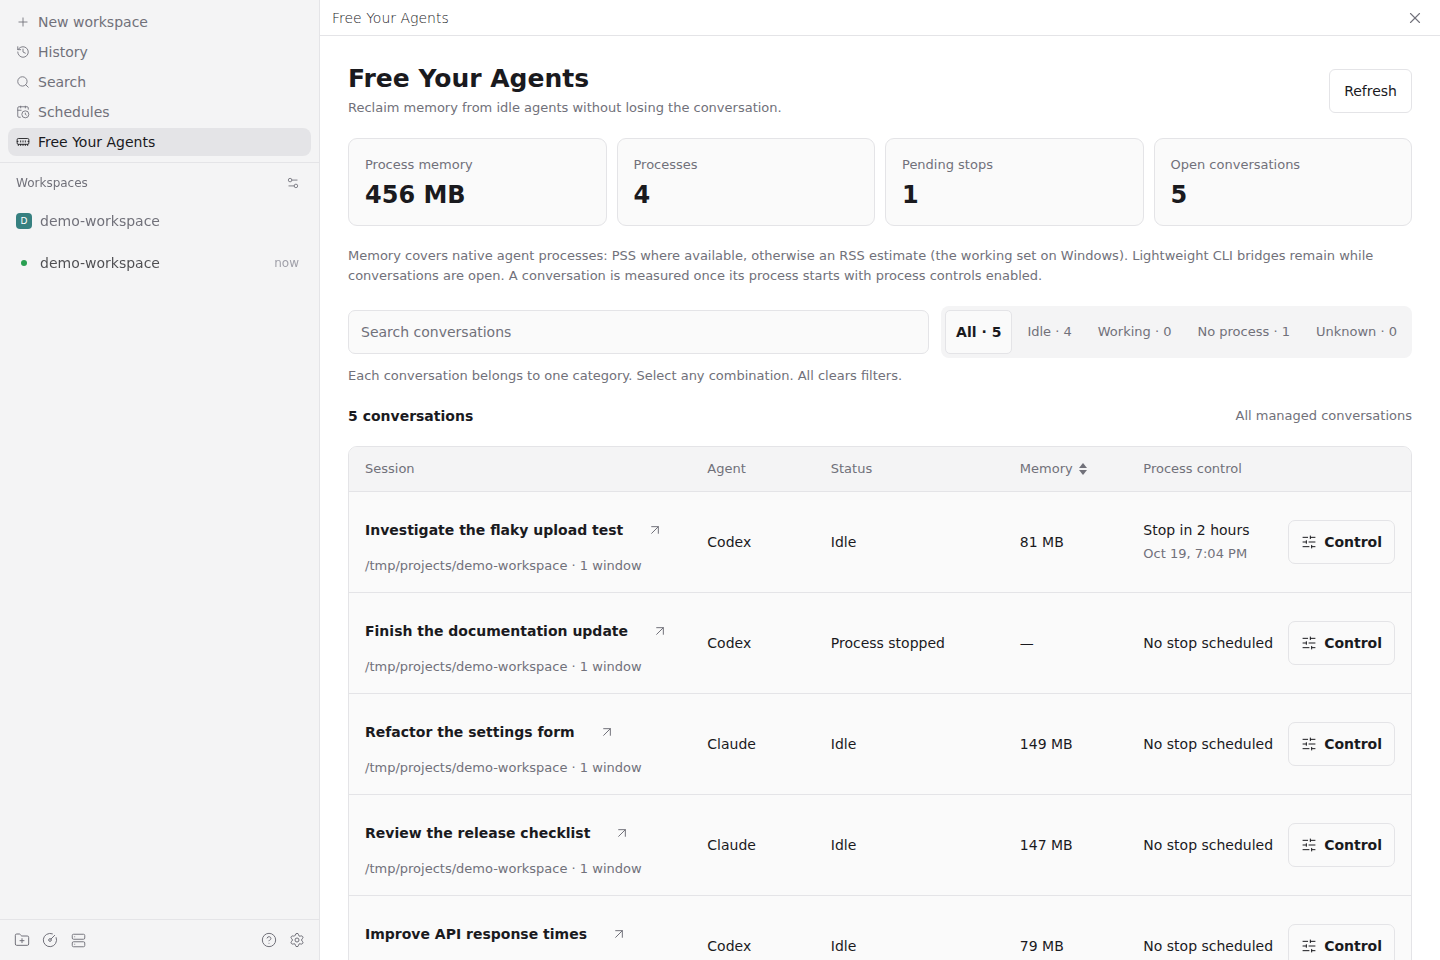
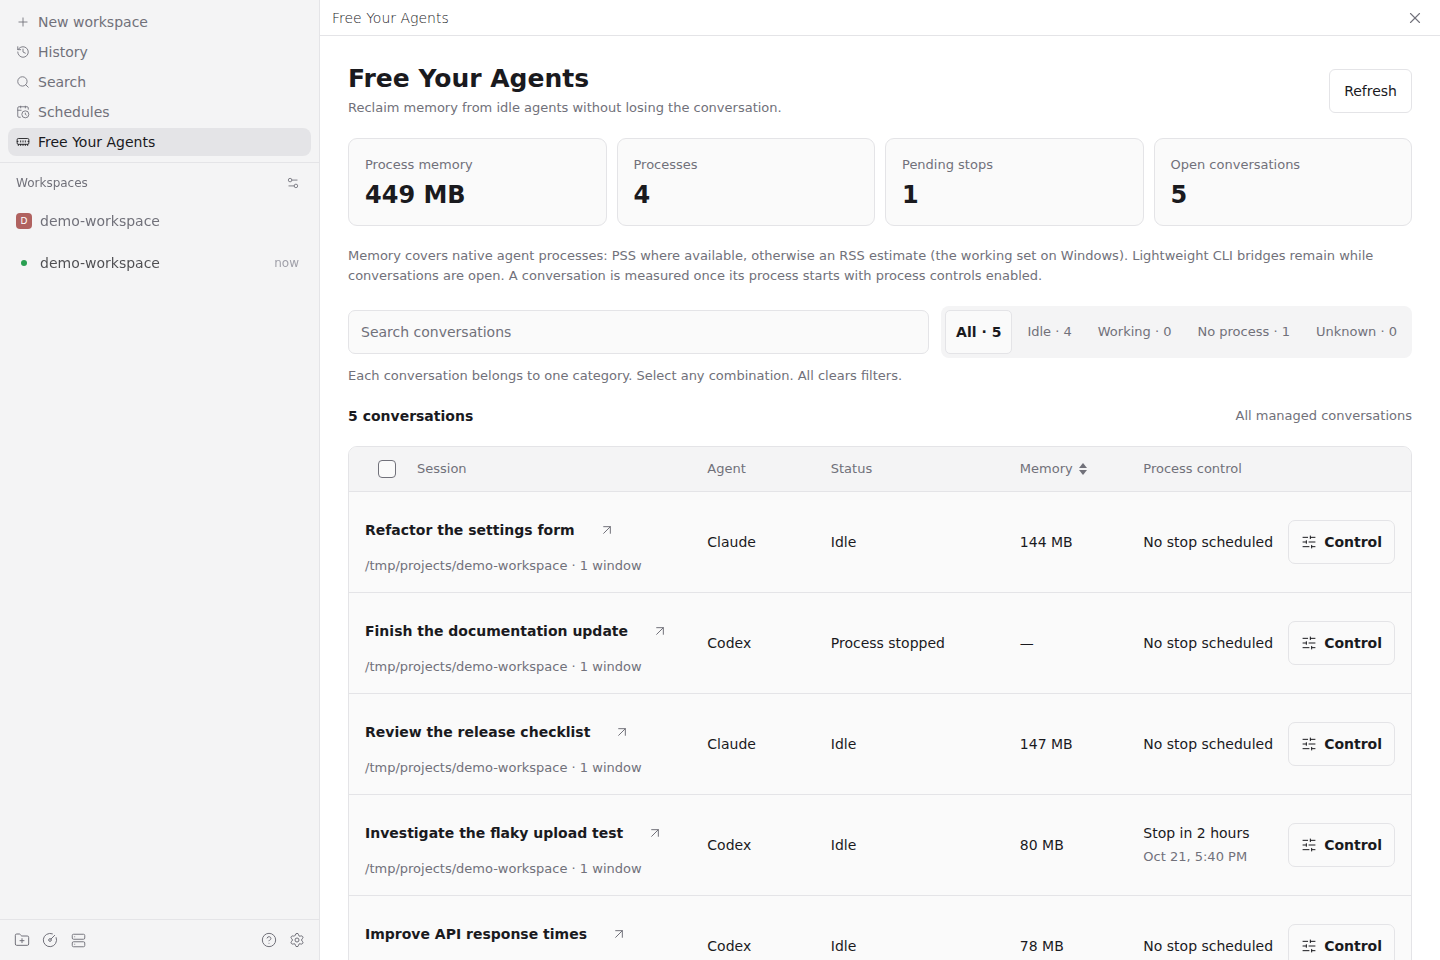
chore: release Free Your Agents v1.1.0

diff --git a/README.md b/README.md
@@ -13,6 +13,7 @@ It helps when many conversations stay open: each one keeps its CLI process runni
 - **See where memory goes.** Managed conversation tabs across the windows and devices connected to the host, with their provider, status and process memory, plus totals. Sort by memory to find the largest.
 - **Find what you can free.** Filter by **Idle**, **Working**, **No process** or **Unknown**, or search by title and workspace.
 - **Stop now or later.** Stop an idle process immediately, or schedule a one-time stop for one conversation (1 hour by default, from 15 minutes to 7 days).
+- **Control several conversations together.** Select conversations with checkboxes to schedule, update or cancel stops, or request a stop for the selection. See their combined process memory and the result for each conversation.
 - **Let work finish first.** A stop waits while the agent is responding, waiting for permission, or running background tasks, goals or scheduled activity.
 - **Pick up where you left off.** Send a message and the same session continues.
 
@@ -39,7 +40,7 @@ When the plugin first runs, it turns on process control for Codex and Claude. Th
 
 Restart the Paseo daemon after installing so that open conversations get process control too: use **Restart daemon** in the host's settings, or run `paseo daemon restart`. Choose a moment when no agent is working. The plugin never restarts the daemon itself.
 
-Updates work the same way. New conversations use the updated version right away; open ones keep the previous version until the daemon restarts.
+Updates that change the bridge work the same way. New conversations use the updated bridge right away; open ones keep the previous bridge until the daemon restarts. Interface-only updates leave existing bridges in place.
 
 To check that it works, start a new conversation and wait for the first reply. Then open **Free Your Agents** from the sidebar. The conversation shows **Idle** with its memory.
 
@@ -56,6 +57,20 @@ After a stop, the conversation and its tab stay open, and its status becomes **P
 ![Open conversations in idle and stopped states, one with a stop scheduled in two hours](assets/conversations.png)
 
 Each conversation has exactly one status, so the status counts add up to **All**. Filters combine with OR.
+
+### Control multiple conversations
+
+On desktop, hover a row or focus its checkbox with the keyboard to reveal selection. On touch screens, touch and hold a conversation to start selecting, then tap other rows to add or remove them. The header checkbox selects all conversations in the current search and filter results.
+
+The selection toolbar shows the selected count and combined process memory. Open **Control selected** to schedule or update stops with one duration, cancel pending schedules, or review and confirm a stop request. Each process's timer starts when its schedule is applied. Active work stays protected by the same checks used for individual controls.
+
+![Three selected conversations and their combined process memory](assets/bulk-selection.png)
+
+Changes are applied to each conversation separately. Progress and results show successes, failures and skips with their reasons; one failure does not prevent the remaining conversations from being processed. Failed and skipped conversations stay selected while they remain in the list, so you can review their current status before trying again.
+
+![Bulk process controls for the selected conversations](assets/bulk-control.png)
+
+Changing the search or status filters clears the selection. Memory sorting preserves it. Conversations removed from the list are deselected and are not automatically reselected if they return. Use **Clear selection**, or press **Escape** outside a dialog, to clear the selection. Checkboxes support Space and Enter.
 
 Only conversations opened as tabs are managed. Mobile sheets are excluded. Conversations in background workspaces are excluded by default; turn on **Include background conversations** in **Settings → Plugins → free-your-agents → Settings** to include their open tabs. This setting applies to every window and device connected to that host. Turning it off removes those conversations from the list and totals and cancels their pending stops. Turning it back on does not restore cancelled stops. Background tasks inside an ordinary conversation still keep its process protected.
 
@@ -97,6 +112,8 @@ npm run check           # bundle check, typecheck and tests
 ```
 
 Paseo installs Git plugins without a build step, so the bridge scripts are bundled into the committed `server/runtime-assets.generated.ts`. `npm run check` verifies it matches its sources.
+
+Releases use semantic versioning: backward-compatible feature additions increment the minor version, bug-fix-only releases increment the patch version, and incompatible public interface changes increment the major version.
 
 ## License
 

diff --git a/OVERVIEW.md b/OVERVIEW.md
@@ -2,11 +2,13 @@ Free Your Agents shows memory use for open Codex and Claude conversations in Pas
 
 The screen lists managed conversation tabs on the host, across windows and devices, with their status and process memory. Filter by Idle, Working, No process or Unknown, search by title and workspace, or sort by memory. Mobile sheets are excluded. Background workspaces are excluded by default; enable **Include background conversations** in the plugin's Settings to include their open tabs. Turning it off cancels their pending stops.
 
+Checkbox selection adds bulk process controls: schedule or update stops, cancel pending schedules, or request stops for several conversations together. The selection shows combined process memory, and each operation reports successes, failures and skipped conversations separately.
+
 ## Setup
 
 Process control runs on Linux and Windows daemon hosts with Paseo v0.11 or later. On macOS the screen loads, but process controls are unavailable. It is validated with Codex v0.162.1 and v0.163.0, and Claude v2.1.299 and v2.1.301. With other versions, conversations work normally but process control stays off. On Windows, Claude needs Node.js on PATH.
 
-When the plugin first runs, it turns on process control for Codex and Claude by changing each provider's launch command to a small bridge. New conversations use it right away. After installing or updating, restart the Paseo daemon so that conversations that were already open use it too; the plugin never restarts the daemon itself. To leave a provider unchanged, turn it off in Settings → Plugins → free-your-agents → Settings. Turning a provider off restores its original launch command, so do this before uninstalling.
+When the plugin first runs, it turns on process control for Codex and Claude by changing each provider's launch command to a small bridge. New conversations use it right away. After installing, or when an update changes the bridge, restart the Paseo daemon so that conversations that were already open use it too; the plugin never restarts the daemon itself. Interface-only updates leave existing bridges in place. To leave a provider unchanged, turn it off in Settings → Plugins → free-your-agents → Settings. Turning a provider off restores its original launch command, so do this before uninstalling.
 
 ## Data and limits
 

diff --git a/assets/README.md b/assets/README.md
@@ -1,11 +1,14 @@
 # Screenshot provenance
 
-Captured on October 19, 2026 from the real Paseo 0.12.0 bundled web app and Free Your Agents, with Codex 0.163.0 and Claude 2.1.301, using Chromium through Playwright at a 1440 × 960 desktop viewport.
+Captured on October 21, 2026 from the real Paseo 0.12.0 bundled web app and the Free Your Agents v1.1.0 candidate, with Codex 0.163.0 and Claude 2.1.301, using Chromium through Playwright at a 1440 × 960 desktop viewport.
 
 - `free-your-agents.png` shows the screen opened from the sidebar, with process control on for Codex and Claude by default and five open demo conversations (three Codex, two Claude).
 - `conversations.png` shows the same list scrolled down and sorted by memory, highest first: four idle processes, one stopped process, and a stop scheduled two hours ahead.
 - `stop-menu.png` shows the process control dialog opened with an idle conversation's Control button.
+- `bulk-selection.png` shows three selected conversations and their combined process memory, including one conversation whose process is already stopped.
+- `bulk-control.png` shows the bulk controls for that selection, including eligible counts for each action.
+- `bulk-results.png` shows two accepted stop requests and one skipped conversation with no process to stop. Both selected native processes were confirmed stopped through the plugin's inventory before capture.
 
-The conversations ran in an isolated daemon and demo workspace. Each received one fixture message answered by a local loopback model server, so no request reached a model provider. Memory values are real measurements of those processes. The stop and the schedule were made through the plugin.
+The conversations ran in an isolated daemon and demo workspace. Each received one fixture message answered by a local loopback model server, so no request reached a model provider. Memory values are real measurements of those processes. Stops and schedules were made through the plugin; bulk scheduling, cancellation and stopping were exercised through its actual web interface.
 
 No production conversation content, account emails or credentials are included. The screenshots are direct browser captures; the displayed interface was not retouched.

diff --git a/CHANGELOG.md b/CHANGELOG.md
@@ -1,5 +1,13 @@
 # Changelog
 
+## 1.1.0 — 2026-10-21
+
+### Added
+
+- Checkbox selection and bulk process controls for Codex and Claude conversations: schedule, update or cancel stops, or request a stop for the selection. ([#7](https://github.com/babo-jeonguk/paseo-free-your-agents/pull/7))
+- Selected conversation count and combined process memory.
+- Bulk operation progress and per-conversation results for successes, failures and skips.
+
 ## 1.0.1 — 2026-10-19
 
 ### Added
